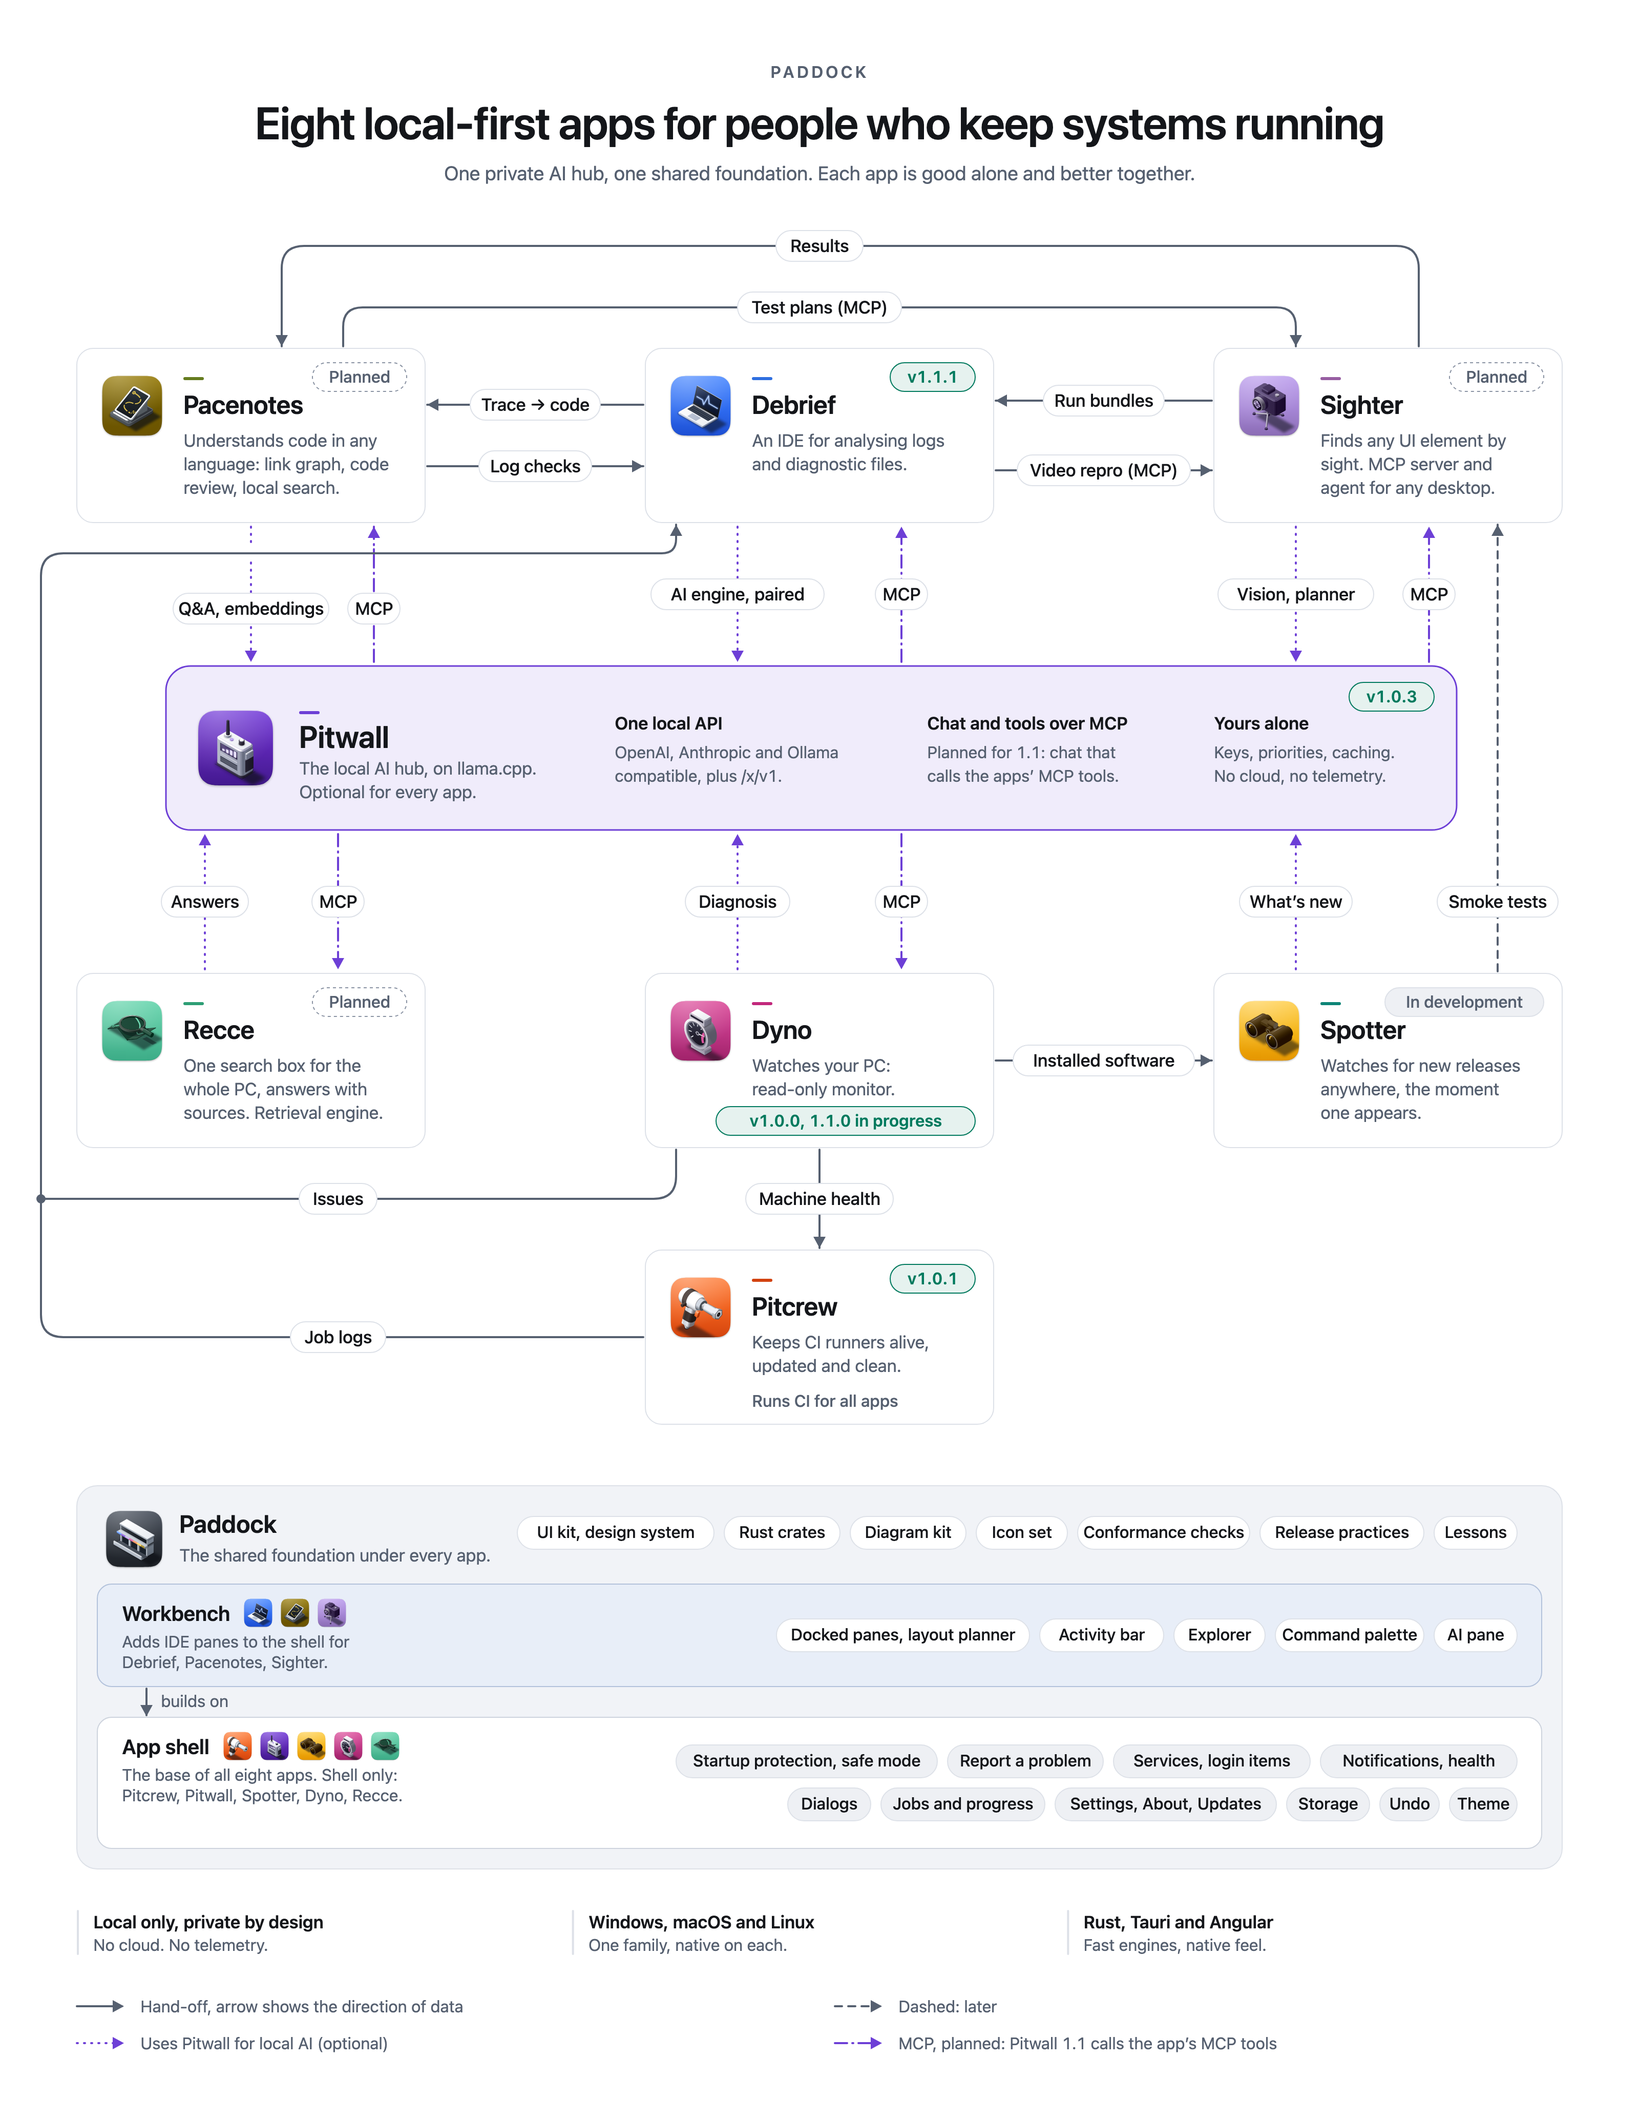
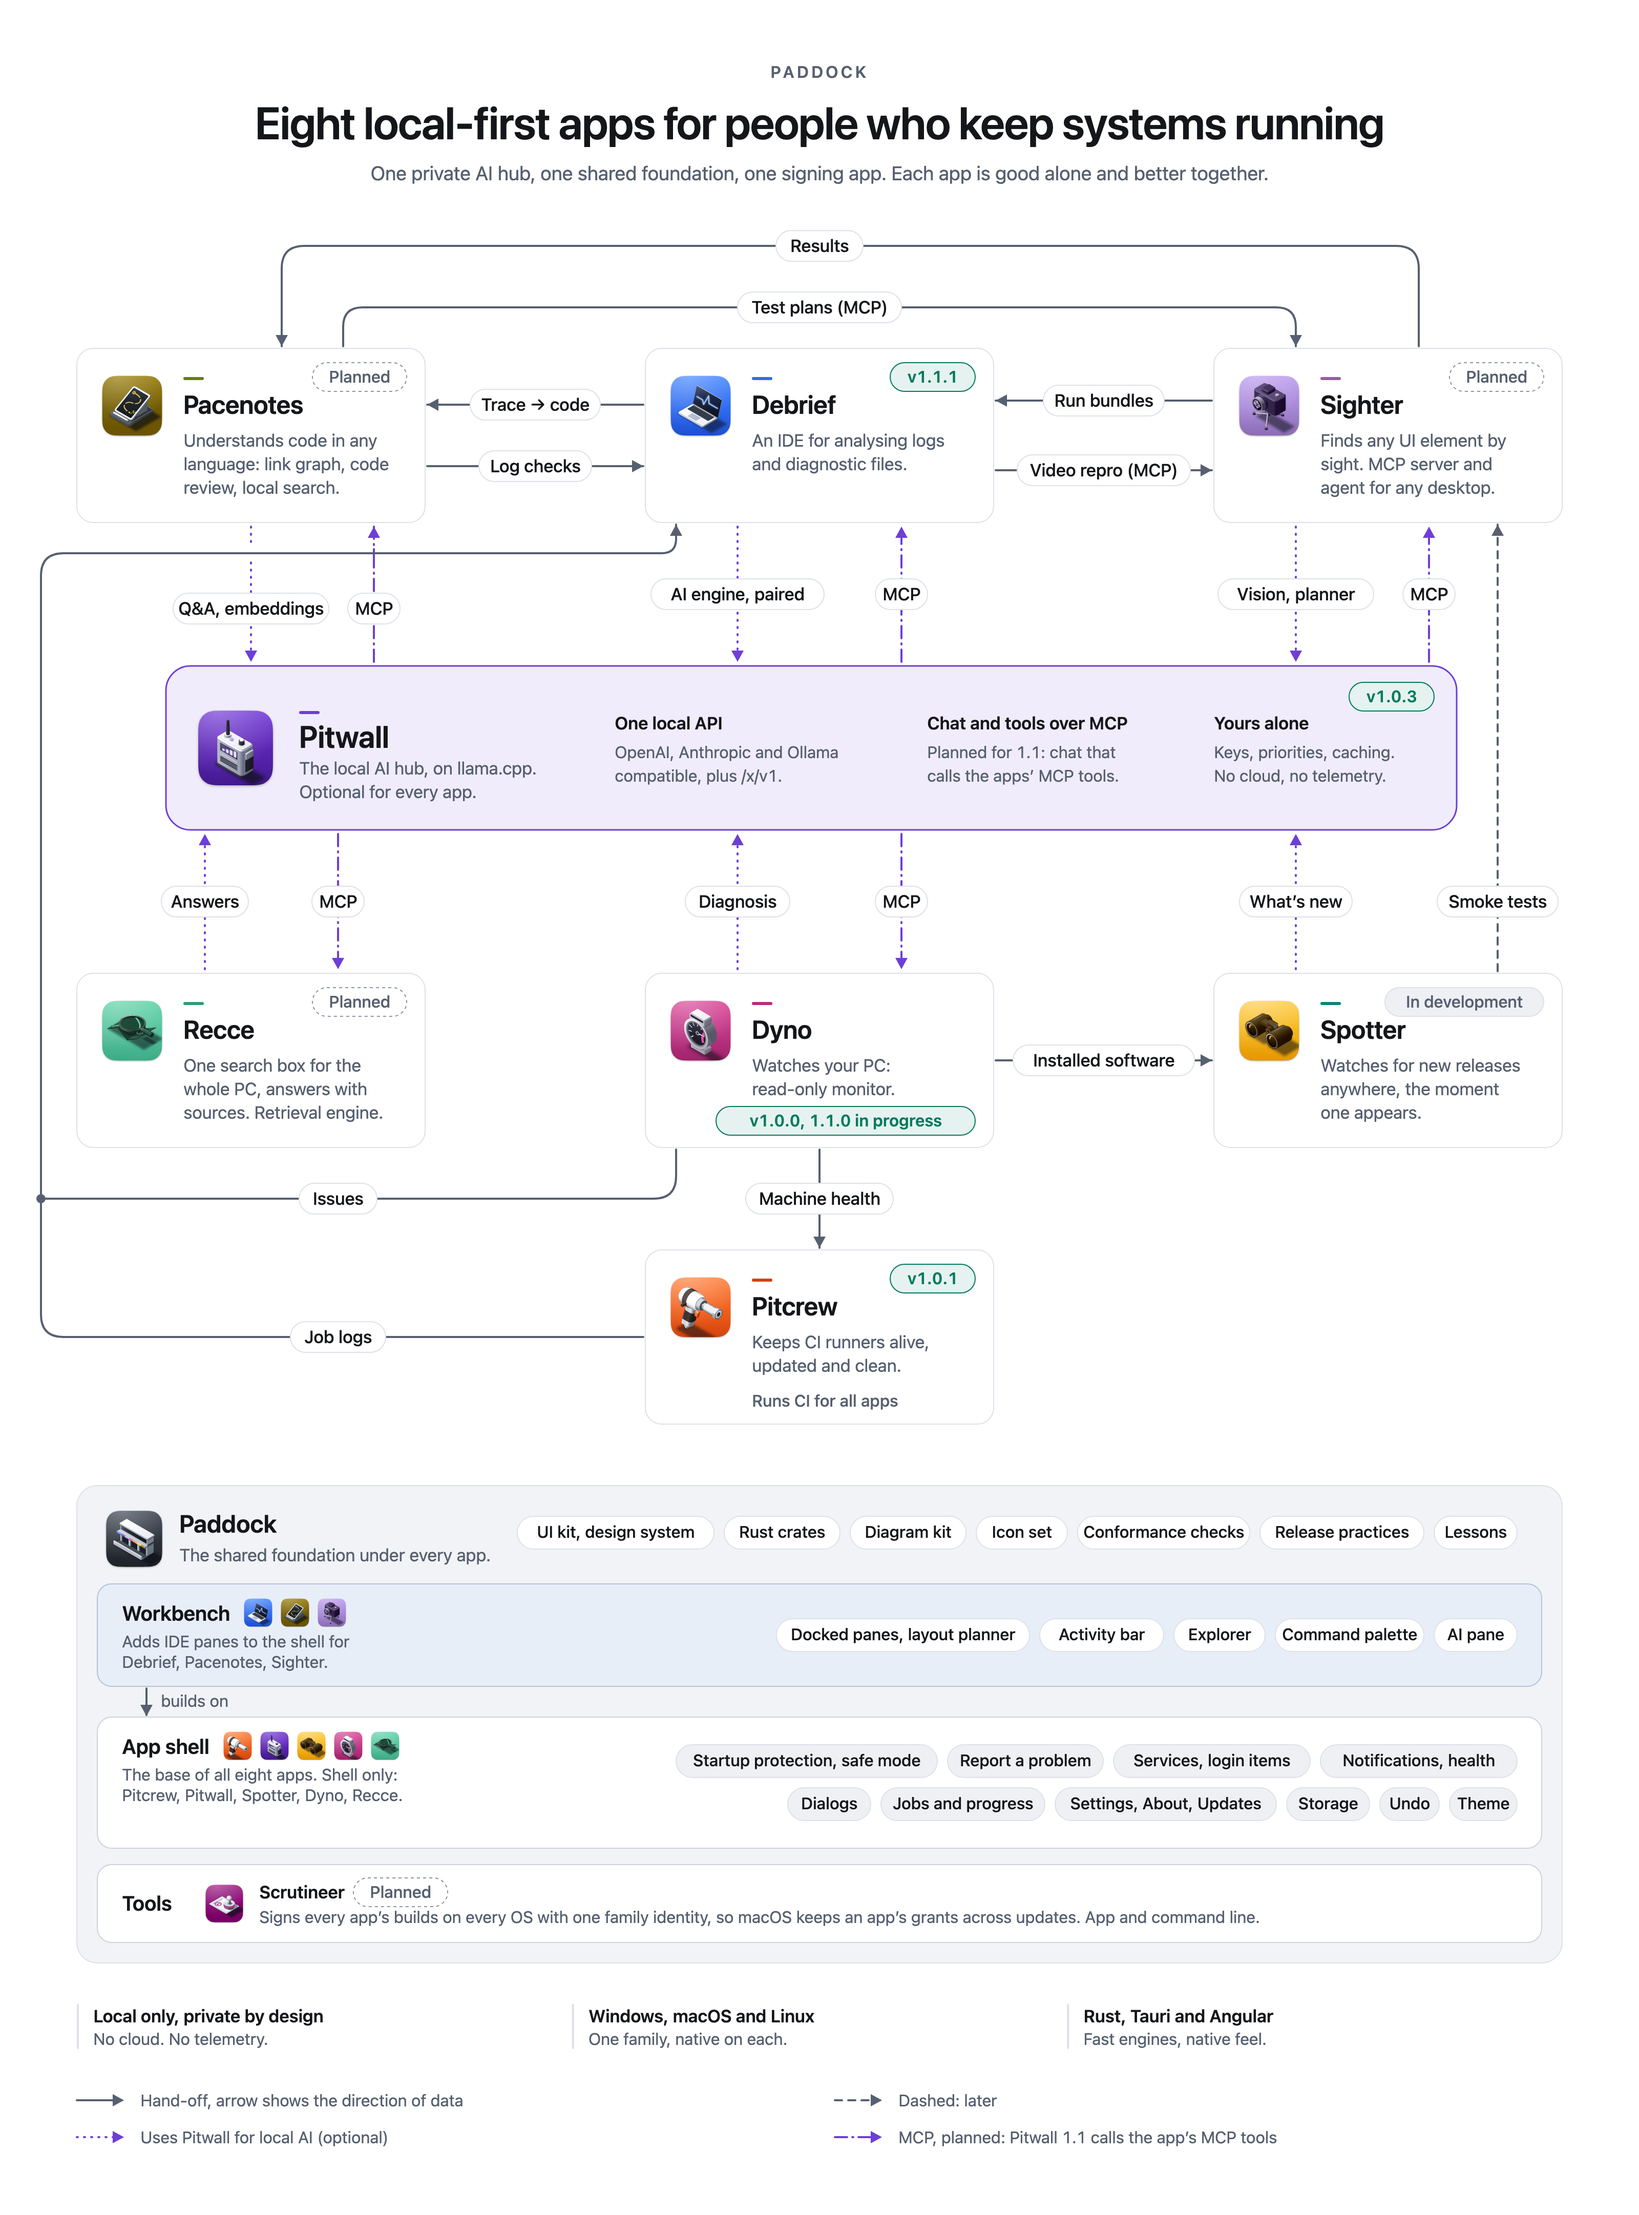
docs(images): the ecosystem hero shows Scrutineer under Tools again, on the current diagram
Re-adds the Tools layer and status to the current hero (Recce, current versions) and regenerates the SVG and PNGs. The hero's REVIEWED rows are removed until an independent review; the restored placeholder icon keeps its reviewed hash.

diff --git a/docs/images/REVIEWED.md b/docs/images/REVIEWED.md
@@ -13,9 +13,7 @@ One row per image under `docs/images` that passed an independent review. A chang
 | src/icons/sighter.svg | ab71dc5d8983205f54a7f231a115a591b413b44004aaf8d7308cb2b12a73bc9e | small-icons poster review (Opus) | 2026-11-03 |
 | src/icons/spotter.svg | bb7619dff9eae64b84759fa336724dab6e71c1a8237c61b2815f8b22f48adadf | small-icons poster review (Opus) | 2026-11-03 |
 | src/icons/recce-placeholder.svg | 927fe52447104f6b7d0af72fdd53e2c96ff5cd90c217e80862a24f4bfb7ba415 | placeholder review only, not a final icon (Opus) | 2026-11-04 |
-| paddock-ecosystem.svg | bbf5ff4ba5feb82df4ec99a6bb862c0098be45990b4b35f25a6e49f75ff0c21d | independent hero review, tool removed (Opus) | 2026-11-05 |
-| paddock-ecosystem-light.png | 66869804ad6c9f9bcc98d63b29711e92f00110708ef8689e1716f62b6d974a61 | independent hero review, tool removed (Opus) | 2026-11-05 |
-| paddock-ecosystem-dark.png | 386413ffae94a92e0a65d6984407592c27c2b473391dcfbe2ec0ac90be4df59c | independent hero review, tool removed (Opus) | 2026-11-05 |
+| src/icons/scrutineer-placeholder.svg | 0009a2de15fe1b2feaeff80fb7ec58b3d8ad9c958240dd78d74798fdb42a25af | placeholder review only, not a final icon (Opus) | 2026-11-04 |
 | paddock-integrations.svg | 169abd9ab0c3625ec6114e1fdde8640b1ffcc33e8ca9e739eb3af188a6d25252 | independent family-diagrams review 2 (Opus) | 2026-11-04 |
 | paddock-integrations-light.png | b166f32d342293adca4e077987722c8ff54a9024d4d8a9b0efffd682b63d935b | independent family-diagrams review 2 (Opus) | 2026-11-04 |
 | paddock-integrations-dark.png | cb959d0238a9f17c2575d761d911ed44d9e6fa8ae334f09668b089ce893f63a6 | independent family-diagrams review 2 (Opus) | 2026-11-04 |
